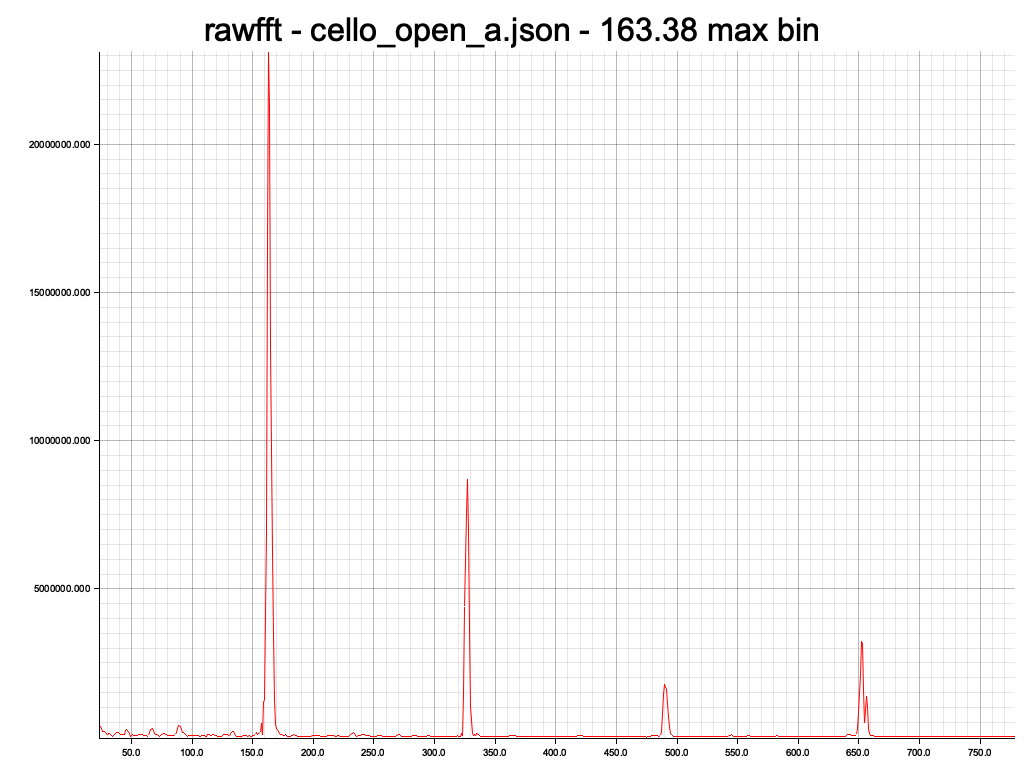
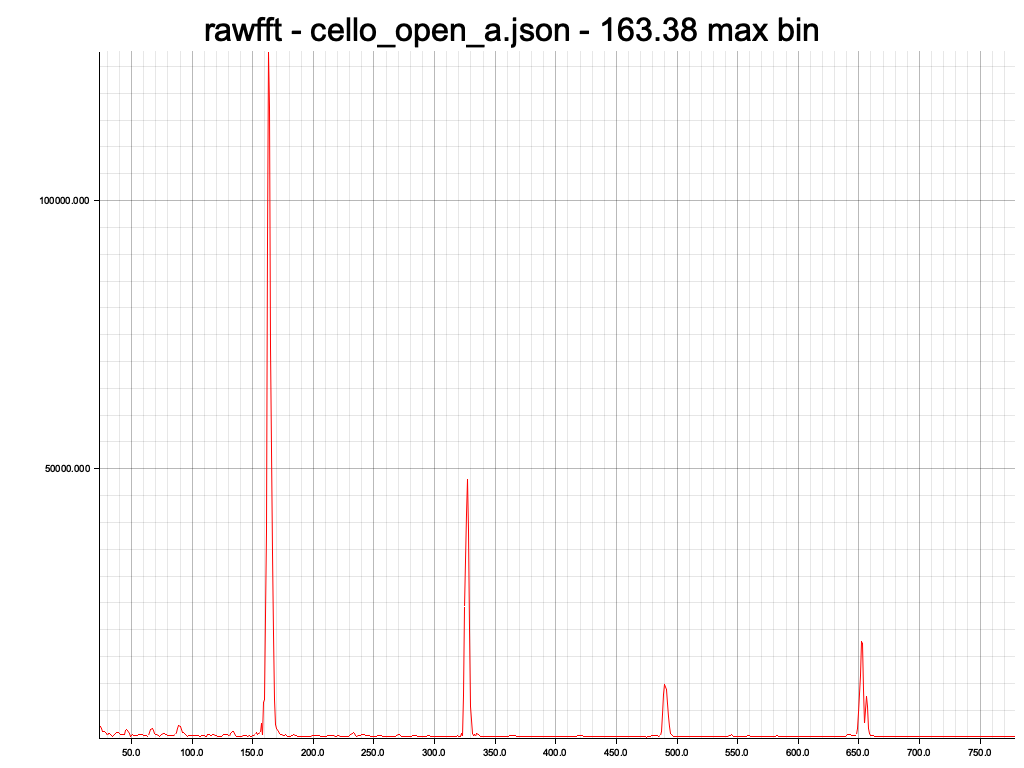
added bench marking

diff --git a/benches/bench_pitch_detectors.rs b/benches/bench_pitch_detectors.rs
@@ -1,0 +1,32 @@
+use criterion::{black_box, criterion_group, criterion_main, Criterion};
+use pitch_detector::{
+    core::test_utils::test_signal,
+    pitch::{HannedFftDetector, PitchDetector, PowerCepstrum},
+};
+
+fn criterion_benchmark(c: &mut Criterion) {
+    let signal = test_signal("cello_open_a.json").expect("Test file should exist");
+    let mut hanned_detector = HannedFftDetector::default();
+    let mut cepstrum_detector = PowerCepstrum::default();
+    let sample_rate = 44000.;
+    let mut group = c.benchmark_group("reduced_samples_group");
+    group.significance_level(0.1).sample_size(60);
+    group.bench_function("hanned fft", |b| {
+        b.iter(|| {
+            hanned_detector
+                .detect_pitch(&signal, black_box(sample_rate))
+                .unwrap()
+        })
+    });
+    group.bench_function("power cepstrum", |b| {
+        b.iter(|| {
+            cepstrum_detector
+                .detect_pitch(&signal, black_box(sample_rate))
+                .unwrap()
+        })
+    });
+    group.finish();
+}
+
+criterion_group!(benches, criterion_benchmark);
+criterion_main!(benches);

diff --git a/src/lib.rs b/src/lib.rs
@@ -4,7 +4,7 @@
 //! Probably the most common use case is to detect the predominant frequency of a signal.
 //! ```rust
 //! use pitch_detector::{
-//!     pitch::{hanned_fft::HannedFftDetector, PitchDetector},
+//!     pitch::{HannedFftDetector, PitchDetector},
 //! };
 //! # fn example_detect_frequency() -> Option<()> {
 //! # const NUM_SAMPLES: usize = 16384;
@@ -27,7 +27,7 @@
 //! use pitch_detector::{
 //!     core::{utils::sine_wave_signal, NoteName},
 //!     note::{detect_note},
-//!     pitch::{hanned_fft::HannedFftDetector, PitchDetector},
+//!     pitch::{HannedFftDetector, PitchDetector},
 //! };
 //! # fn example_detect_note() -> Option<()> {
 //! # const NUM_SAMPLES: usize = 16384;
@@ -57,7 +57,7 @@
 //! use pitch_detector::{
 //!     core::{utils::sine_wave_signal, NoteName},
 //!     note::{hinted::HintedNoteDetector},
-//!     pitch::{hanned_fft::HannedFftDetector, PitchDetector},
+//!     pitch::{HannedFftDetector, PitchDetector},
 //! };
 //! # fn example_hinted_note() -> Option<()> {
 //! # const NUM_SAMPLES: usize = 16384;

diff --git a/src/note.rs b/src/note.rs
@@ -17,7 +17,7 @@ pub use self::note_detection_result::NoteDetectionResult;
 /// use pitch_detector::{
 ///     core::{utils::sine_wave_signal, NoteName},
 ///     note::{detect_note},
-///     pitch::{hanned_fft::HannedFftDetector, PitchDetector},
+///     pitch::{HannedFftDetector, PitchDetector},
 /// };
 /// # fn example_detect_note() -> Option<()> {
 /// # const NUM_SAMPLES: usize = 16384;
@@ -53,7 +53,7 @@ pub fn detect_note<D: PitchDetector>(
 /// use pitch_detector::{
 ///     core::{utils::sine_wave_signal, NoteName},
 ///     note::{detect_note_in_range},
-///     pitch::{hanned_fft::HannedFftDetector, PitchDetector},
+///     pitch::{HannedFftDetector, PitchDetector},
 /// };
 /// # fn example_detect_note() -> Option<()> {
 /// # const NUM_SAMPLES: usize = 16384;

diff --git a/src/pitch/hanned_fft.rs b/src/pitch/hanned_fft.rs
@@ -23,12 +23,13 @@ impl HannedFftDetector {
     fn unscaled_spectrum(&self, bin_range: (usize, usize)) -> Box<dyn Iterator<Item = f64> + '_> {
         if let Some(ref fft_space) = self.fft_space {
             let (lower_limit, upper_limit) = bin_range;
+            let normalize = 1. / (fft_space.padded_len() as f64).sqrt();
             Box::new(
                 fft_space
                     .freq_domain(true)
                     .skip(lower_limit)
                     .take(upper_limit - lower_limit)
-                    .map(|(amplitude, _)| amplitude),
+                    .map(move |(amplitude, _)| amplitude * normalize),
             )
         } else {
             panic!("FFT space not initialized");

diff --git a/src/pitch.rs b/src/pitch.rs
@@ -4,9 +4,12 @@
 //! is good for detecting sounds that are rich in harmonics, as well as low pitched sounds, but bad at detecting samples
 //! with fewer partials.
 //!
-pub mod cepstrum;
-pub mod core;
-pub mod hanned_fft;
+mod cepstrum;
+mod core;
+mod hanned_fft;
+
+pub use cepstrum::PowerCepstrum;
+pub use hanned_fft::HannedFftDetector;
 
 // autocorrelation doesn't work well enough yet.
 // pub mod autocorrelation;

diff --git a/examples/spectrum_plot.rs b/examples/spectrum_plot.rs
@@ -1,8 +1,6 @@
 use pitch_detector::{
     core::{test_utils::test_signal, utils::mixed_wave_signal},
-    pitch::{
-        cepstrum::PowerCepstrum, hanned_fft::HannedFftDetector, PitchDetector, SignalToSpectrum,
-    },
+    pitch::{HannedFftDetector, PitchDetector, PowerCepstrum, SignalToSpectrum},
     plot::plot_spectrum,
 };
 

diff --git a/examples/basic_usage.rs b/examples/basic_usage.rs
@@ -3,7 +3,7 @@ use float_cmp::ApproxEq;
 use pitch_detector::{
     core::{utils::sine_wave_signal, NoteName},
     note::{detect_note_in_range, hinted::HintedNoteDetector},
-    pitch::{hanned_fft::HannedFftDetector, PitchDetector},
+    pitch::{HannedFftDetector, PitchDetector},
 };
 
 const NUM_SAMPLES: usize = 16384;

diff --git a/src/note/hinted.rs b/src/note/hinted.rs
@@ -55,7 +55,7 @@ pub trait HintedNoteDetector: SignalToSpectrum {
 mod tests {
     use crate::{
         core::test_utils::hinted::{assert_hinted_detector, assert_hinted_detector_sine_waves},
-        pitch::hanned_fft::HannedFftDetector,
+        pitch::HannedFftDetector,
     };
 
     use super::*;

diff --git a/README.md b/README.md
@@ -56,5 +56,8 @@ assert_eq!(note.note_name, NoteName::A);
 ```
 Check out the [examples](https://github.com/mherrerarendon/pitch-detector/tree/main/examples) directory for more.
 
+## Testing
+Run `cargo pitch` to run tests for all features, and `cargo benchmark` alias to run benchmarks with features setup correctly. 
+
 ## License
 Licensed under the [MIT license](https://github.com/mherrerarendon/pitch-detector/blob/main/LICENSE-MIT)
